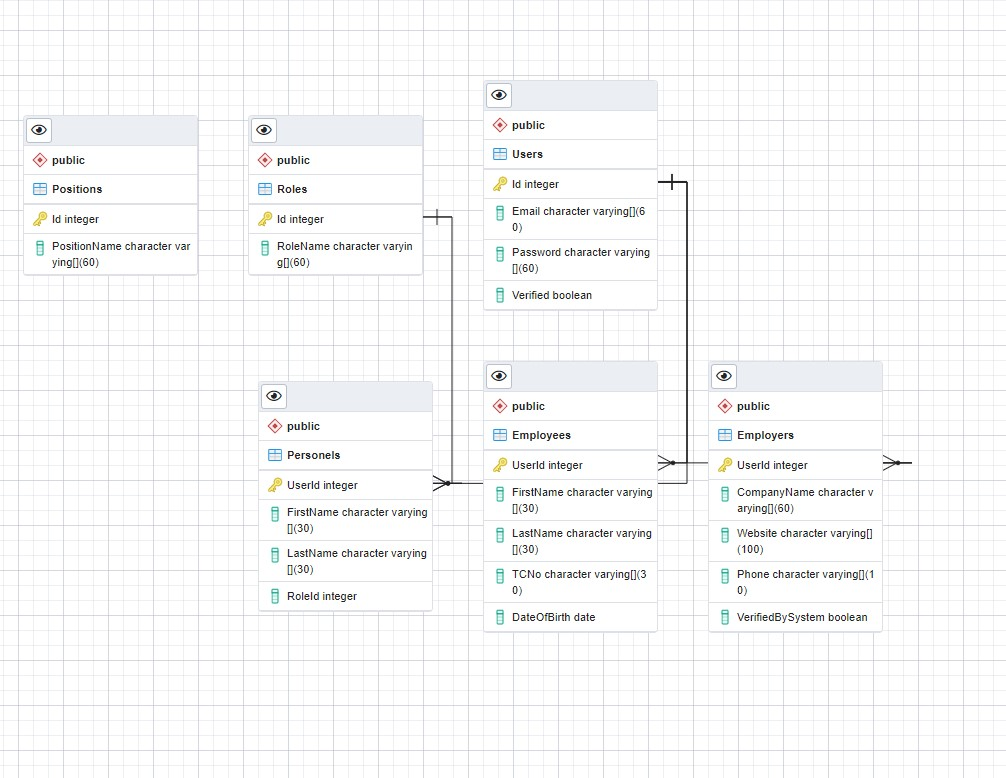
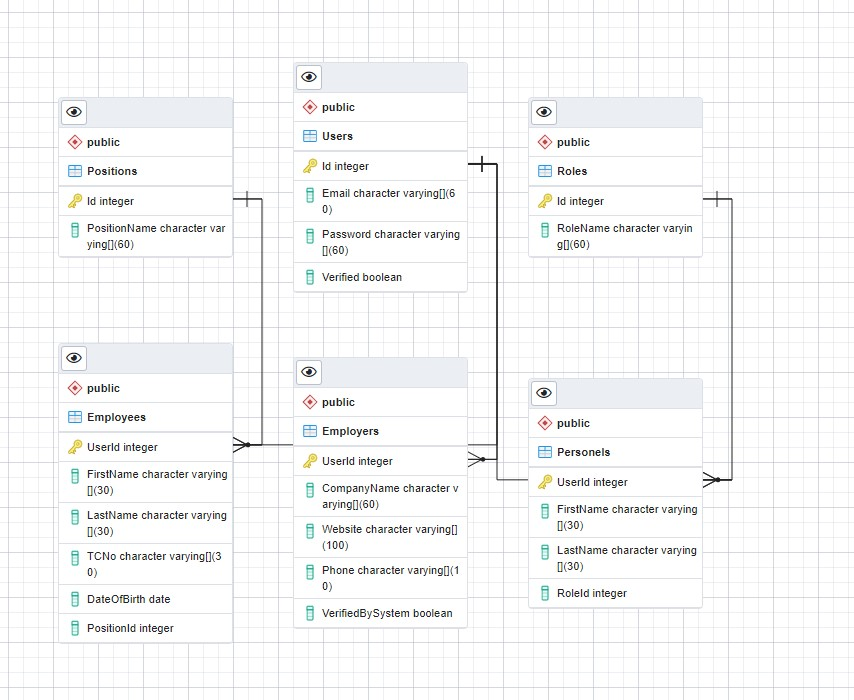
SQL & Diagram Updated

diff --git a/hrms/src/main/java/latifyilmaz/hrms/entities/concretes/Employee.java b/hrms/src/main/java/latifyilmaz/hrms/entities/concretes/Employee.java
@@ -1,0 +1,37 @@
+/*
+Not Finished Yet!
+*/
+
+package latifyilmaz.hrms.entities.concretes;
+
+import lombok.Data;
+
+import javax.persistence.*;
+
+@Data
+@Entity
+@Table(name="Employee")
+public class Employee extends User{
+    @Id
+    @Column(name="UserId")
+    private int userId;
+
+    @Column(name="FirstName")
+    private String firstName;
+
+    @Column(name="LastName")
+    private String lastName;
+
+    @Column(name="TCNo")
+    private boolean tcNo;
+
+    public Employee(){}
+    public Employee(int id, String email, String password, boolean verified, int userId, String firstName, String lastName, boolean tcNo){
+        super(id, email, password, verified);
+        this.userId = id;
+        this.firstName = firstName;
+        this.lastName = lastName;
+        this.tcNo = tcNo;
+    }
+
+}

diff --git a/hrms/src/main/java/latifyilmaz/hrms/entities/concretes/User.java b/hrms/src/main/java/latifyilmaz/hrms/entities/concretes/User.java
@@ -1,0 +1,38 @@
+/*
+Not Finished Yet!
+*/
+
+package latifyilmaz.hrms.entities.concretes;
+
+import lombok.Data;
+
+import javax.persistence.*;
+
+@Data
+@Entity
+@Table(name="Users")
+public class User{
+    @Id
+    @GeneratedValue
+    @Column(name="Id")
+    private int id;
+
+    @Column(name="Email")
+    private String email;
+
+    @Column(name="Password")
+    private String password;
+
+    @Column(name="Verified")
+    private boolean verified;
+
+    public User(){}
+    public User(int id, String email, String password, boolean verified){
+        super();
+        this.id = id;
+        this.email = email;
+        this.password = password;
+        this.verified = verified;
+    }
+
+}

diff --git a/hrms/src/main/java/latifyilmaz/hrms/api/controllers/UsersController.java b/hrms/src/main/java/latifyilmaz/hrms/api/controllers/UsersController.java
@@ -1,0 +1,8 @@
+/*
+Not Finished Yet!
+*/
+
+package latifyilmaz.hrms.api.controllers;
+
+public class UsersController {
+}

diff --git a/hrms/src/main/java/latifyilmaz/hrms/entities/concretes/Positions.java b/hrms/src/main/java/latifyilmaz/hrms/entities/concretes/Positions.java
@@ -1,0 +1,5 @@
+package latifyilmaz.hrms.entities.concretes;
+
+public class Positions {
+
+}

diff --git a/README.md b/README.md
@@ -1,0 +1,1 @@
+# HRMS Project Java Spring Boot
